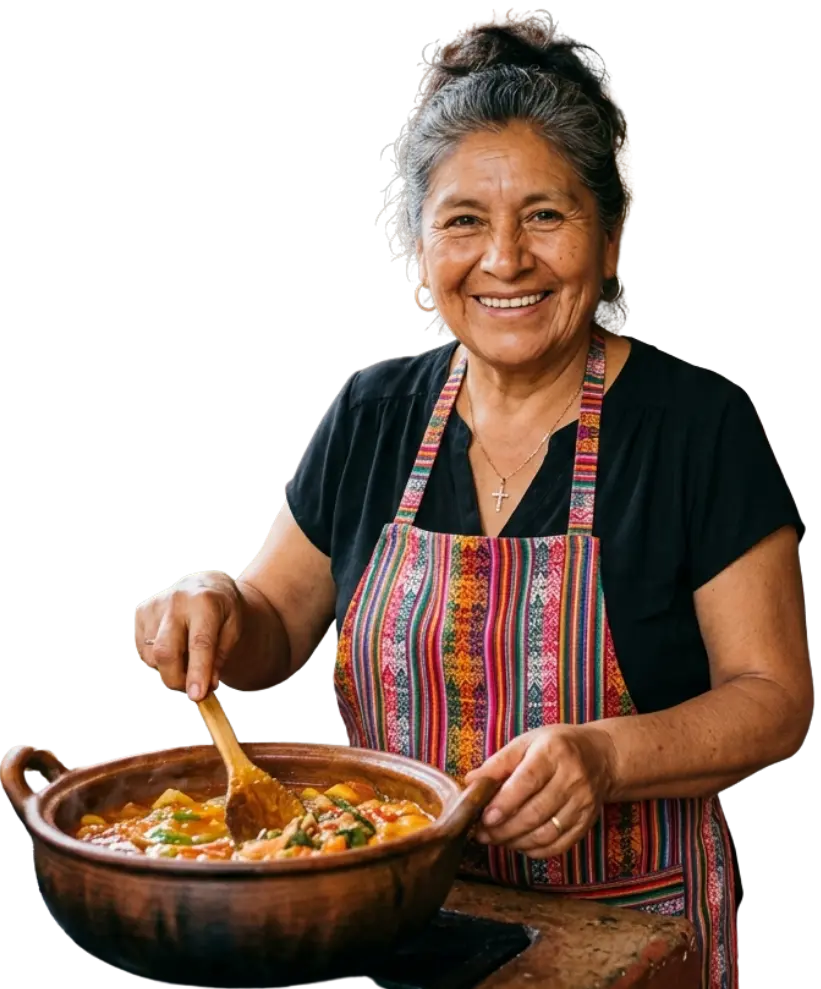
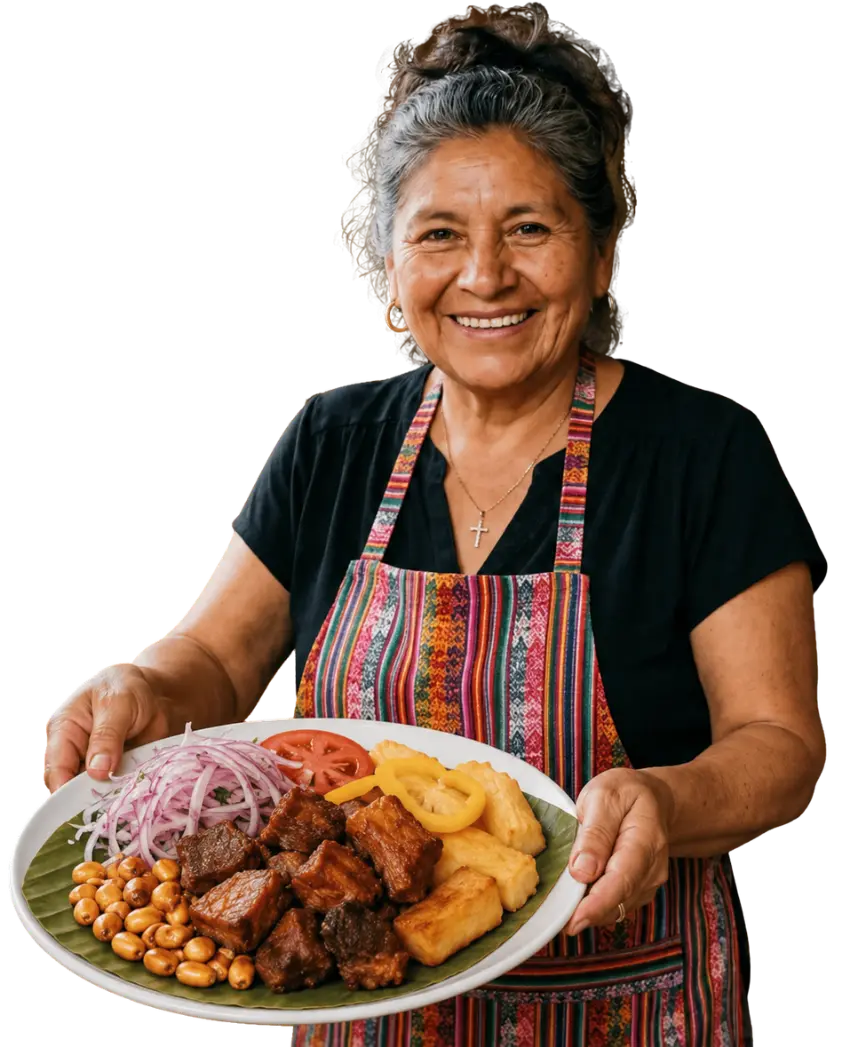
fixes

diff --git a/index.html b/index.html
@@ -234,6 +234,11 @@
     background:radial-gradient(circle at 38% 30%, var(--aji-soft), var(--naranja) 70%, #9a4e12);border:4px solid var(--oro);
     box-shadow:0 0 40px rgba(244,182,22,.6),inset 0 -6px 14px rgba(0,0,0,.35);animation:badgePop .7s cubic-bezier(.2,1.4,.4,1)}
   .badge-big .vis{width:72px;height:72px;font-size:52px}
+  .recipe-grid{display:grid;grid-template-columns:repeat(3,1fr);gap:10px;width:100%;max-width:360px;margin:6px auto 4px}
+  .recipe-item{display:flex;flex-direction:column;align-items:center;gap:4px;padding:8px 4px;border-radius:12px;
+    background:linear-gradient(180deg, rgba(60,36,18,.7), rgba(40,24,12,.7));border:1.5px solid rgba(236,187,79,.22)}
+  .recipe-item .vis{width:44px;height:44px;font-size:36px}
+  .recipe-item .rn{font-size:11px;color:var(--crema);font-weight:600;text-align:center;line-height:1.15}
   .badge-big::before{content:"";position:absolute;inset:-14px;border-radius:50%;border:2px dashed rgba(236,187,79,.4);animation:spin 14s linear infinite}
   @keyframes spin{to{transform:rotate(360deg)}}
   @keyframes badgePop{0%{transform:scale(0) rotate(-40deg);opacity:0}100%{transform:scale(1) rotate(0);opacity:1}}
@@ -391,6 +396,13 @@
     <div class="pts-pop" id="ovPts">+5 puntos</div>
     <div class="culture" id="ovCulture"></div>
     <button class="btn" id="ovRewardBtn">Continuar</button>
+  </div></div>
+
+  <div class="overlay" id="ovRecipe"><div class="card">
+    <h2 class="unlock" style="margin:0">La receta del frito piurano</h2>
+    <p class="tag" style="margin:0;color:var(--crema-dim)">Estos son los ingredientes que debes escoger:</p>
+    <div class="recipe-grid" id="recipeGrid"></div>
+    <button class="btn" id="ovRecipeBtn">¡A cocinar!</button>
   </div></div>
 
   <div class="overlay" id="ovFail"><div class="card">
@@ -671,9 +683,21 @@ const Narrator = (()=> {
   return { say };
 })();
 
+/* ---------- Receta (ingredientes del frito piurano) ---------- */
+const RECIPE_KEYS = ['cerdo','ajo','cebolla','aji','camote','arroz','aceite','platano','tamal','achiote'];
+function showRecipe(onDone){
+  const g=$('#recipeGrid'); g.innerHTML='';
+  RECIPE_KEYS.forEach(k=>{ const it=ASSETS.ingredients[k]; if(!it)return;
+    const cell=el('div','recipe-item'); cell.appendChild(makeVisual(it,44));
+    const nm=el('div','rn'); nm.textContent=it.name; cell.appendChild(nm); g.appendChild(cell); });
+  showOverlay('ovRecipe');
+  $('#ovRecipeBtn').onclick=()=>{ hideOverlay('ovRecipe'); onDone&&onDone(); };
+}
+
 /* ════════════ SECUENCIA DEL JUEGO ════════════ */
 const FLOW = [
   ()=>Narrator.say(DIALOG.intro, run, true),
+  ()=>showRecipe(run),
   ()=>Narrator.say(DIALOG.l1, ()=>startLevel(0)),
   ()=>reward(0),
   ()=>Narrator.say(DIALOG.l2, ()=>startLevel(1)),